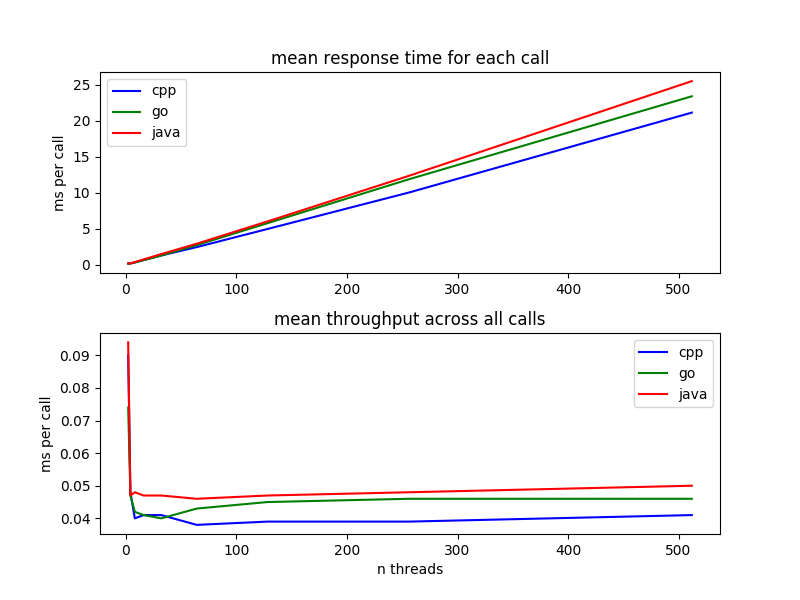
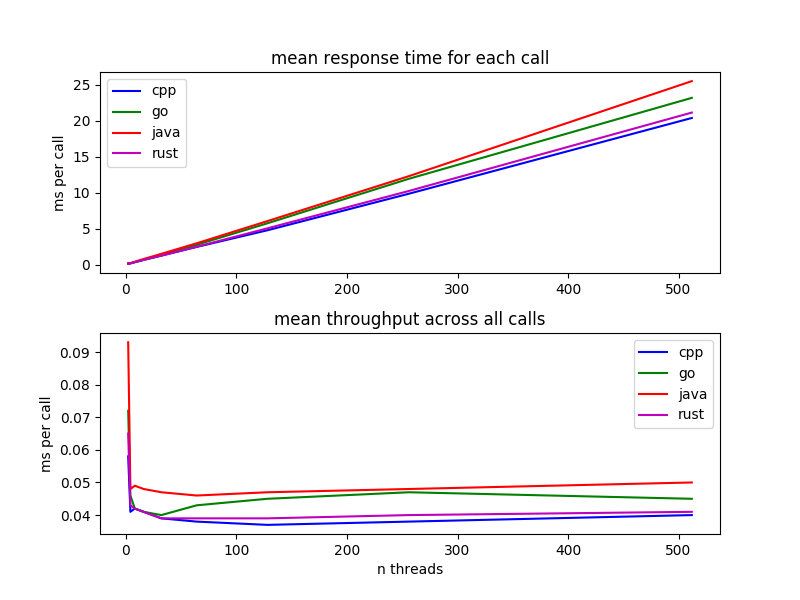
adding rust actix

diff --git a/app.rs b/app.rs
@@ -1,0 +1,13 @@
+use actix_web::{web, App, Responder, HttpServer};
+
+fn handle() -> impl Responder {
+    format!("hello from rust\nLorem ipsum dolor sit amet, consectetur adipiscing elit, sed do eiusmod tempor incididunt ut labore et dolore magna aliqua. Ut enim ad minim veniam, quis nostrud exercitation ullamco laboris nisi ut aliquip ex ea commodo consequat. Duis aute irure dolor in reprehenderit in voluptate velit esse cillum dolore eu fugiat nulla pariatur. Excepteur sint occaecat cupidatat non proident, sunt in culpa qui officia deserunt mollit anim id est laborum.")
+}
+
+fn main() -> std::io::Result<()> {
+    HttpServer::new(|| App::new().service(
+        web::resource("/").to(handle))
+    )
+    .bind("localhost:8080")?
+    .run()
+}

diff --git a/plot.py b/plot.py
@@ -27,6 +27,7 @@ plt.title('mean response time for each call')
 plt.plot(nthreads, times_mean[0:n], c='b', label='cpp')
 plt.plot(nthreads, times_mean[n:2*n], c='g', label='go')
 plt.plot(nthreads, times_mean[2*n:3*n], c='r', label='java')
+plt.plot(nthreads, times_mean[3*n:4*n], c='m', label='rust')
 plt.ylabel('ms per call')
 plt.legend()
 
@@ -35,6 +36,7 @@ plt.title('mean throughput across all calls')
 plt.plot(nthreads, times_throughput[0:n], c='b', label='cpp')
 plt.plot(nthreads, times_throughput[n:2*n], c='g', label='go')
 plt.plot(nthreads, times_throughput[2*n:3*n], c='r', label='java')
+plt.plot(nthreads, times_throughput[3*n:4*n], c='m', label='rust')
 plt.xlabel('n threads')
 plt.ylabel('ms per call')
 plt.legend()

diff --git a/README.md b/README.md
@@ -3,5 +3,15 @@
 * c++ crow  
 * go http  
 * java jetty  
+* rust actix  
+
+### Requirements  
+* golang  
+* git  
+* jdk  
+* gradle  
+* gcc  
+* rustup  
+* cargo  
 
 ![benchmark](benchmark.png "benchmark")
